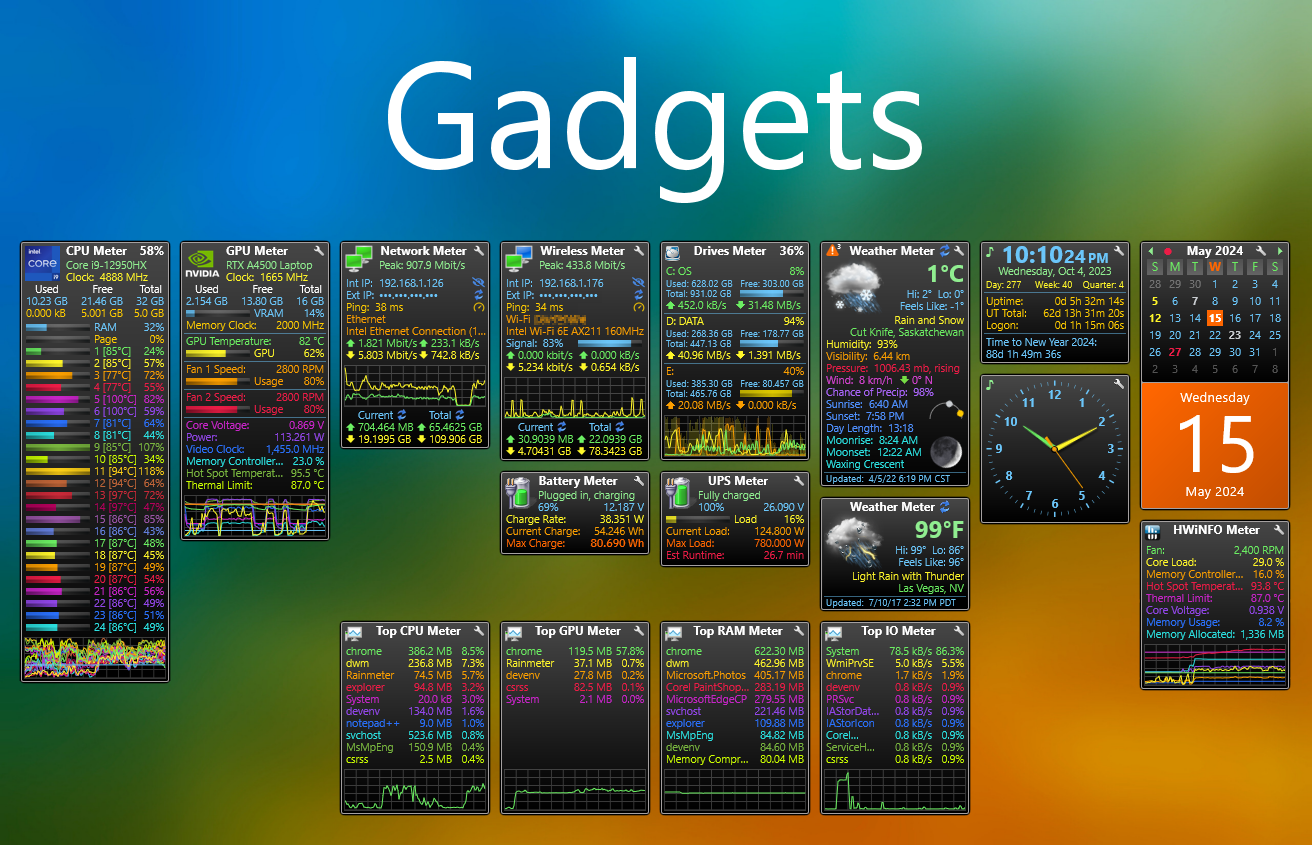
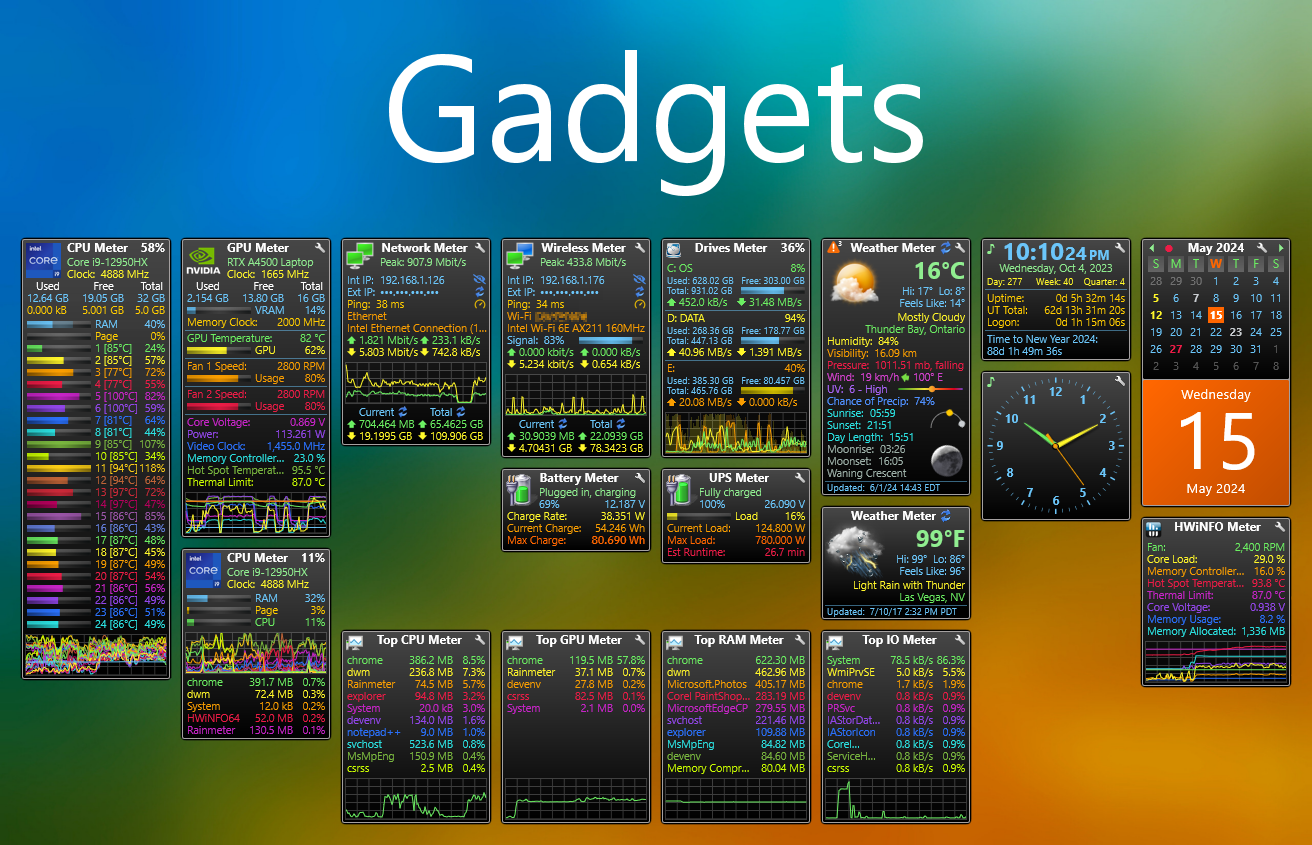
Updated image

Changed region(s): [[0.0, 0.2769, 1.0, 0.9846], [0.2812, 0.0923, 0.7188, 0.2462], [0.3125, 0.0615, 0.375, 0.0923]]

diff --git a/README.md b/README.md
@@ -18,6 +18,7 @@ In 2015, I discovered Rainmeter, a free and open-source platform that enables cr
 * Supports [symmetric multiprocessing](https://docs.microsoft.com/en-us/windows/win32/procthread/multiple-processors) (SMP) and [non-uniform memory access](https://docs.microsoft.com/en-us/windows/win32/procthread/numa-support) (NUMA) architectures (skins for up to 4 CPUs or 4 NUMA nodes are provided, but more can be added).**\***
 * Displays processor model and clock speed.
 * Shows used, free, and total RAM available (per CPU or NUMA node if applicable).
+* Shows memory composition breakdown (optional).
 * Shows used, free, and total page file available (optional).
 * Shows core temperatures (optional, requires [CoreTemp](http://www.alcpu.com/CoreTemp/), [SpeedFan](http://www.almico.com/speedfan.php), or [HWiNFO](http://www.hwinfo.com); more info [here](https://github.com/SilverAzide/Gadgets/wiki/HOW-TO-Configure-the-All-CPU-Meter-to-show-core-temperatures#how-to-configure-the-all-cpu-meter-to-show-core-temperatures)).
 * Shows CPU fan speed (optional, requires [SpeedFan](http://www.almico.com/speedfan.php) or [HWiNFO](http://www.hwinfo.com); more info [here](https://github.com/SilverAzide/Gadgets/wiki/HOW-TO-Configure-the-All-CPU-Meter-to-show-fan-usage#how-to-configure-the-all-cpu-meter-to-show-fan-usage)).**\***
@@ -134,7 +135,7 @@ A precision network monitor with all the features of Network Meter, plus:
 ![](https://github.com/SilverAzide/Gadgets/wiki/Images/Spacer.png) ![Weather Meter](https://github.com/SilverAzide/Gadgets/wiki/Images/Weather-Meter.png)
 * Displays the current weather for any location from [The Weather Channel](http://www.weather.com/). _Does NOT use the deprecated Wxdata feed_.
 * Displays data in metric or imperial units.
-* Shows current temperature, forecast high and low temperatures, "feels like" temperature, current conditions, current location and station, humidity, visibility, barometric pressure, wind speed, wind direction, and chance of precipitation.
+* Shows current temperature, forecast high and low temperatures, "feels like" temperature, current conditions, current location and station, humidity, visibility, barometric pressure, wind speed, wind direction, UV index, and chance of precipitation.
 * Shows current sunrise and sunset times, day length, and sun dial.
 * Shows current moonrise and moonset times, moon phase and description, and moon dial.
 * Shows moon zenith angle (tilt) and percentage illumination.**\***
